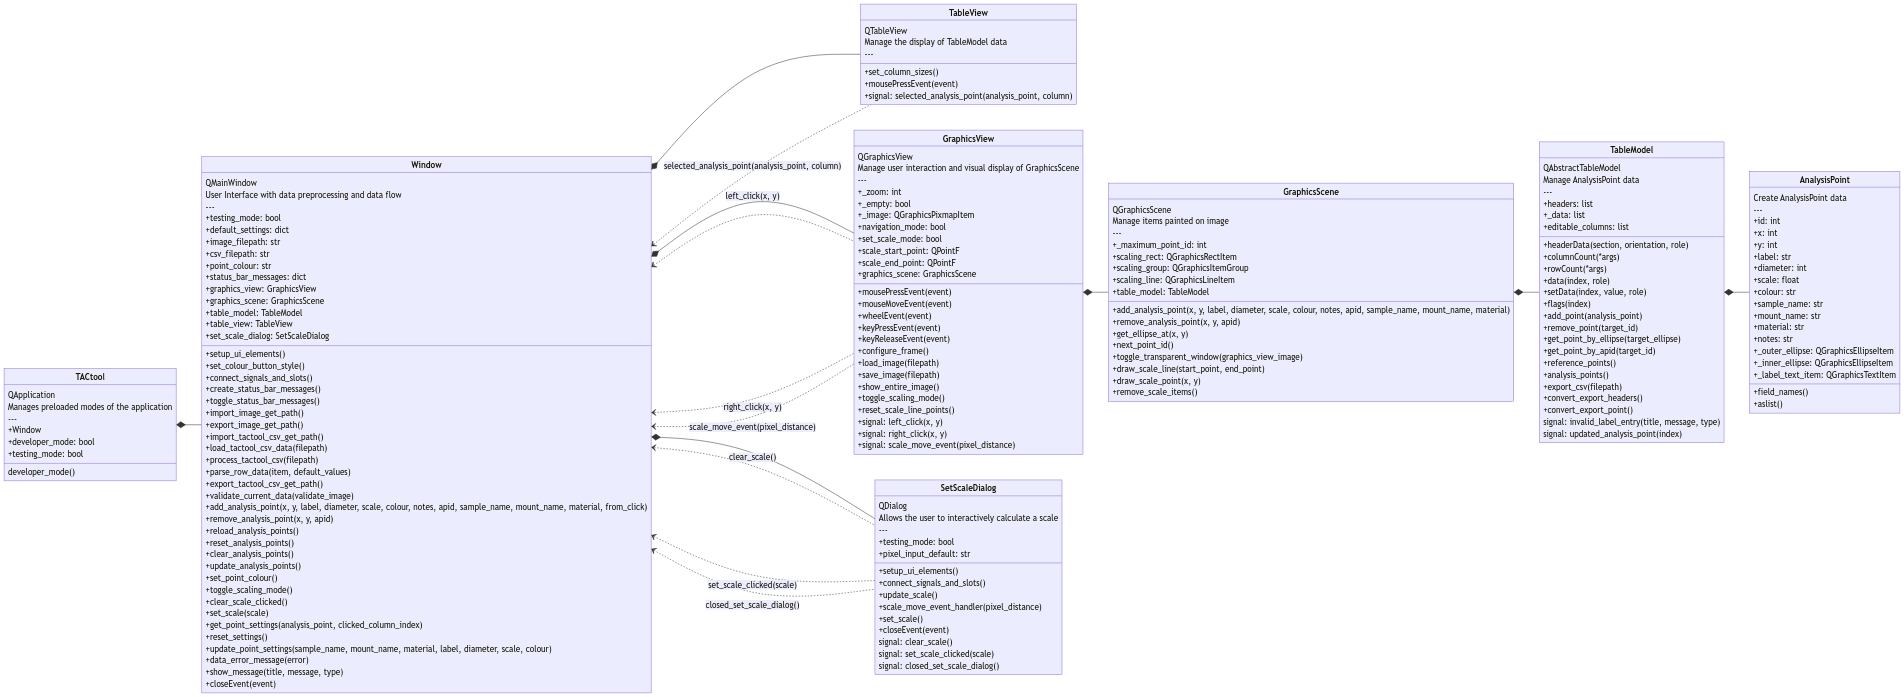
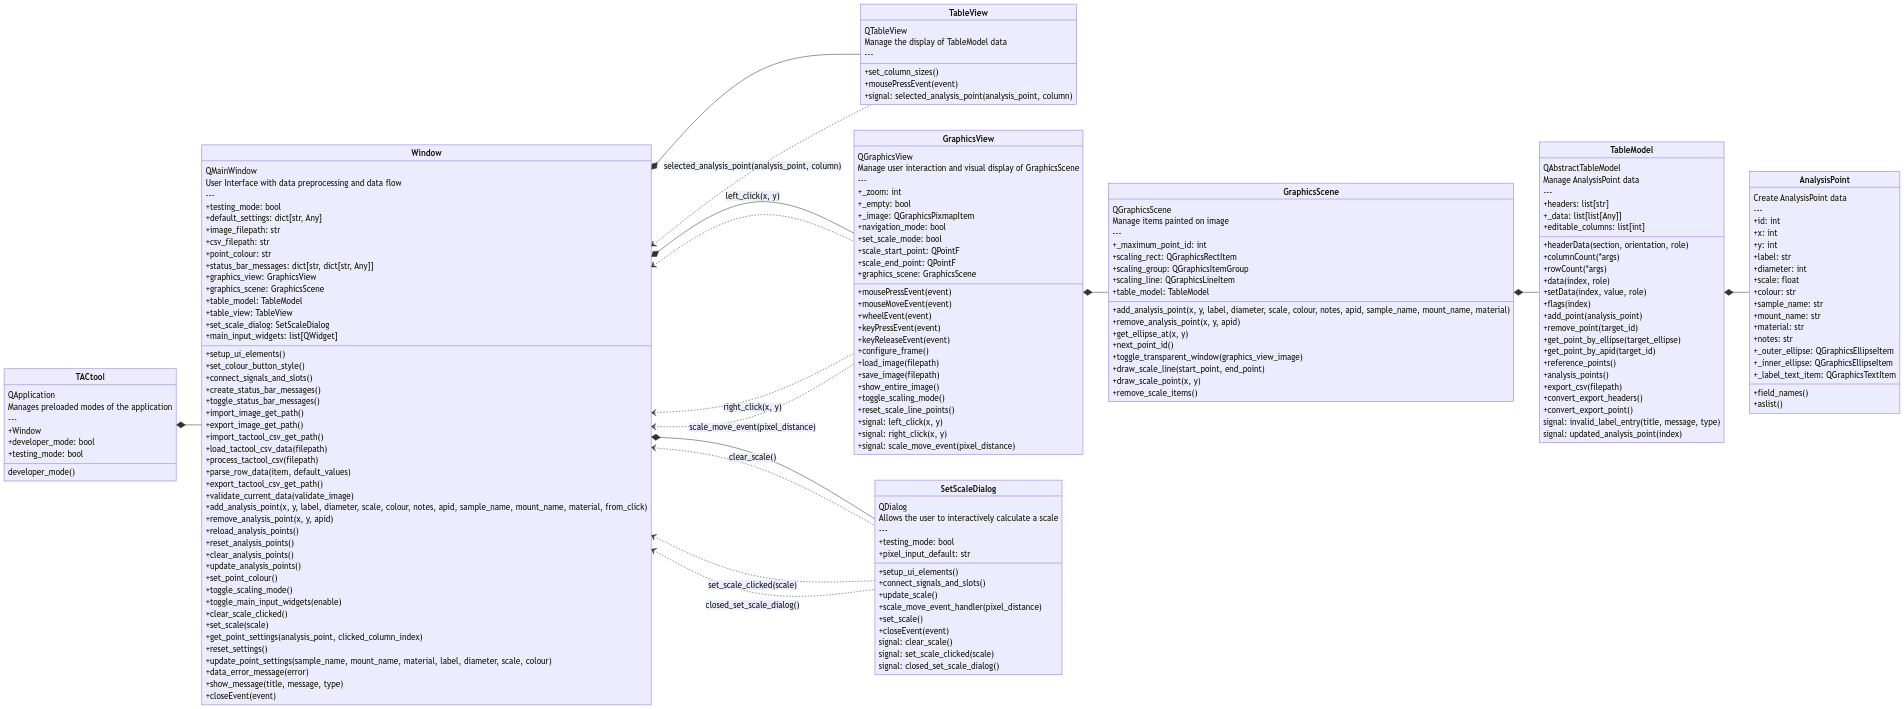
Update class relationship diagram to reflect changes

diff --git a/README.md b/README.md
@@ -33,16 +33,17 @@
             User Interface with data preprocessing and data flow
             ---
             +testing_mode: bool
-            +default_settings: dict
+            +default_settings: dict[str, Any]
             +image_filepath: str
             +csv_filepath: str
             +point_colour: str
-            +status_bar_messages: dict
+            +status_bar_messages: dict[str, dict[str, Any]]
             +graphics_view: GraphicsView
             +graphics_scene: GraphicsScene
             +table_model: TableModel
             +table_view: TableView
             +set_scale_dialog: SetScaleDialog
+            +main_input_widgets: list[QWidget]
 
             +setup_ui_elements()
             +set_colour_button_style()
@@ -65,6 +66,7 @@
             +update_analysis_points()
             +set_point_colour()
             +toggle_scaling_mode()
+            +toggle_main_input_widgets(enable)
             +clear_scale_clicked()
             +set_scale(scale)
             +get_point_settings(analysis_point, clicked_column_index)
@@ -155,9 +157,9 @@
             QAbstractTableModel
             Manage AnalysisPoint data
             ---
-            +headers: list
-            +_data: list
-            +editable_columns: list
+            +headers: list[str]
+            +_data: list[list[Any]]
+            +editable_columns: list[int]
 
             +headerData(section, orientation, role)
             +columnCount(*args)
